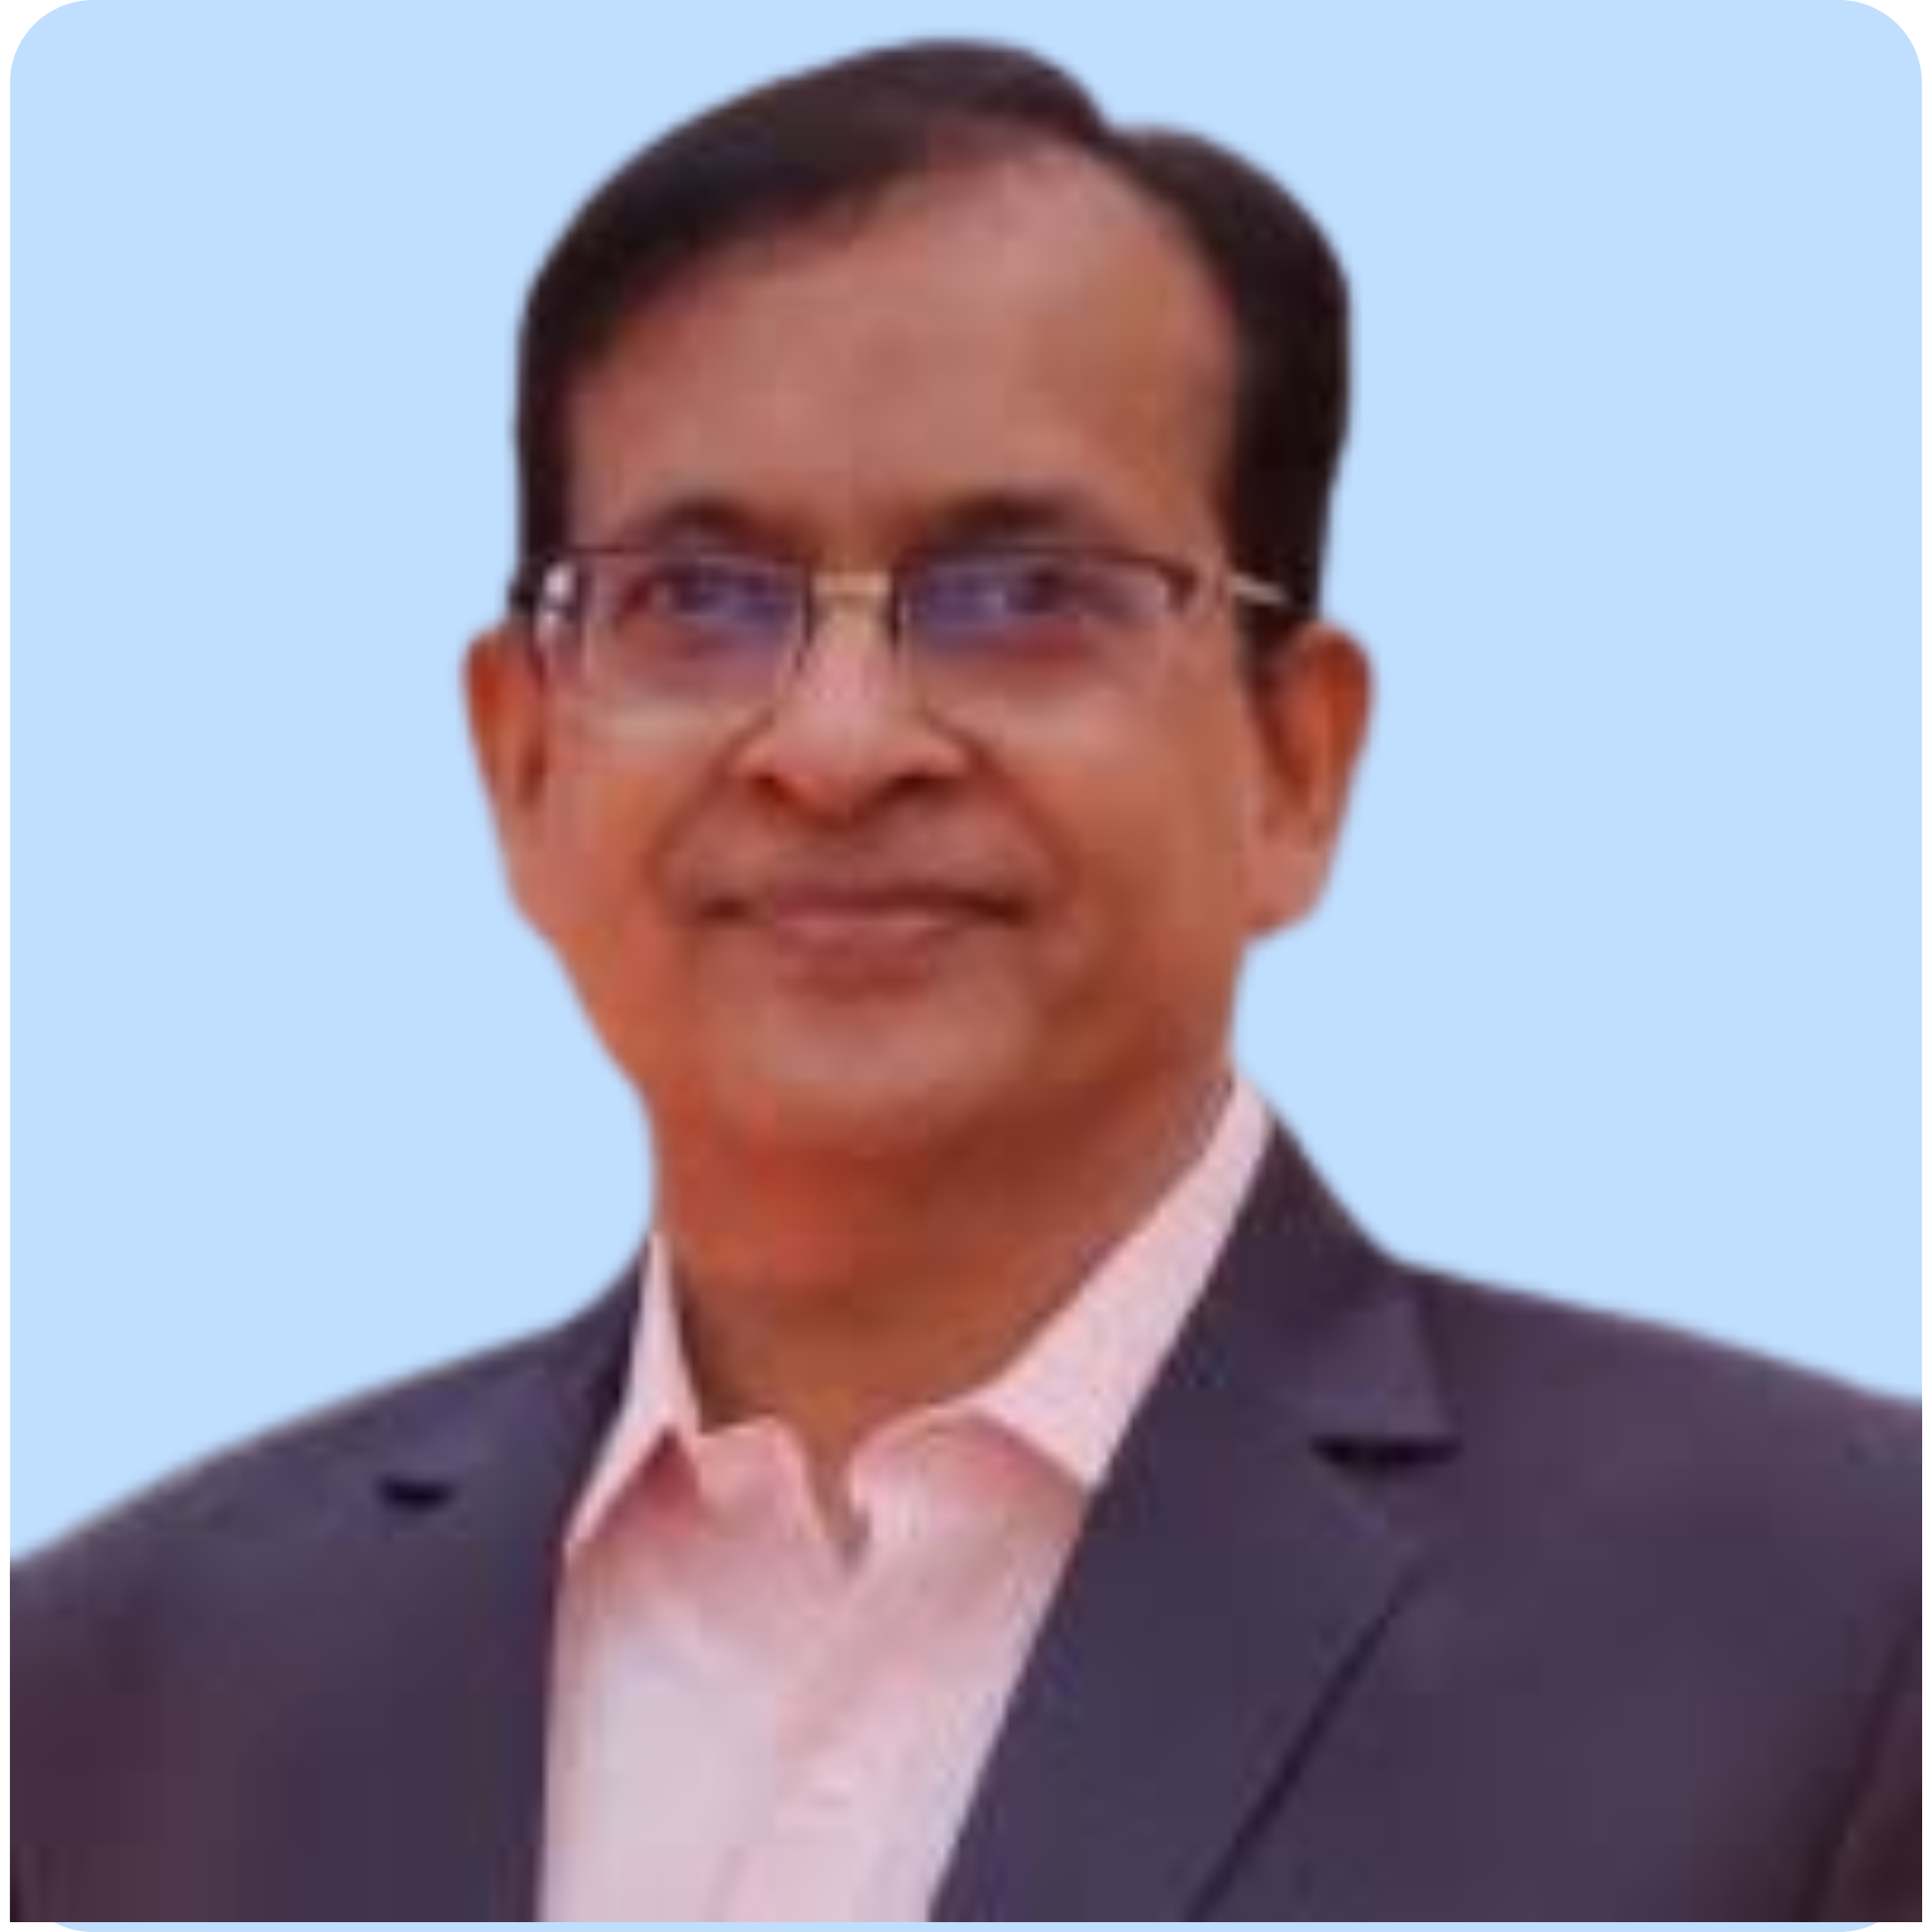
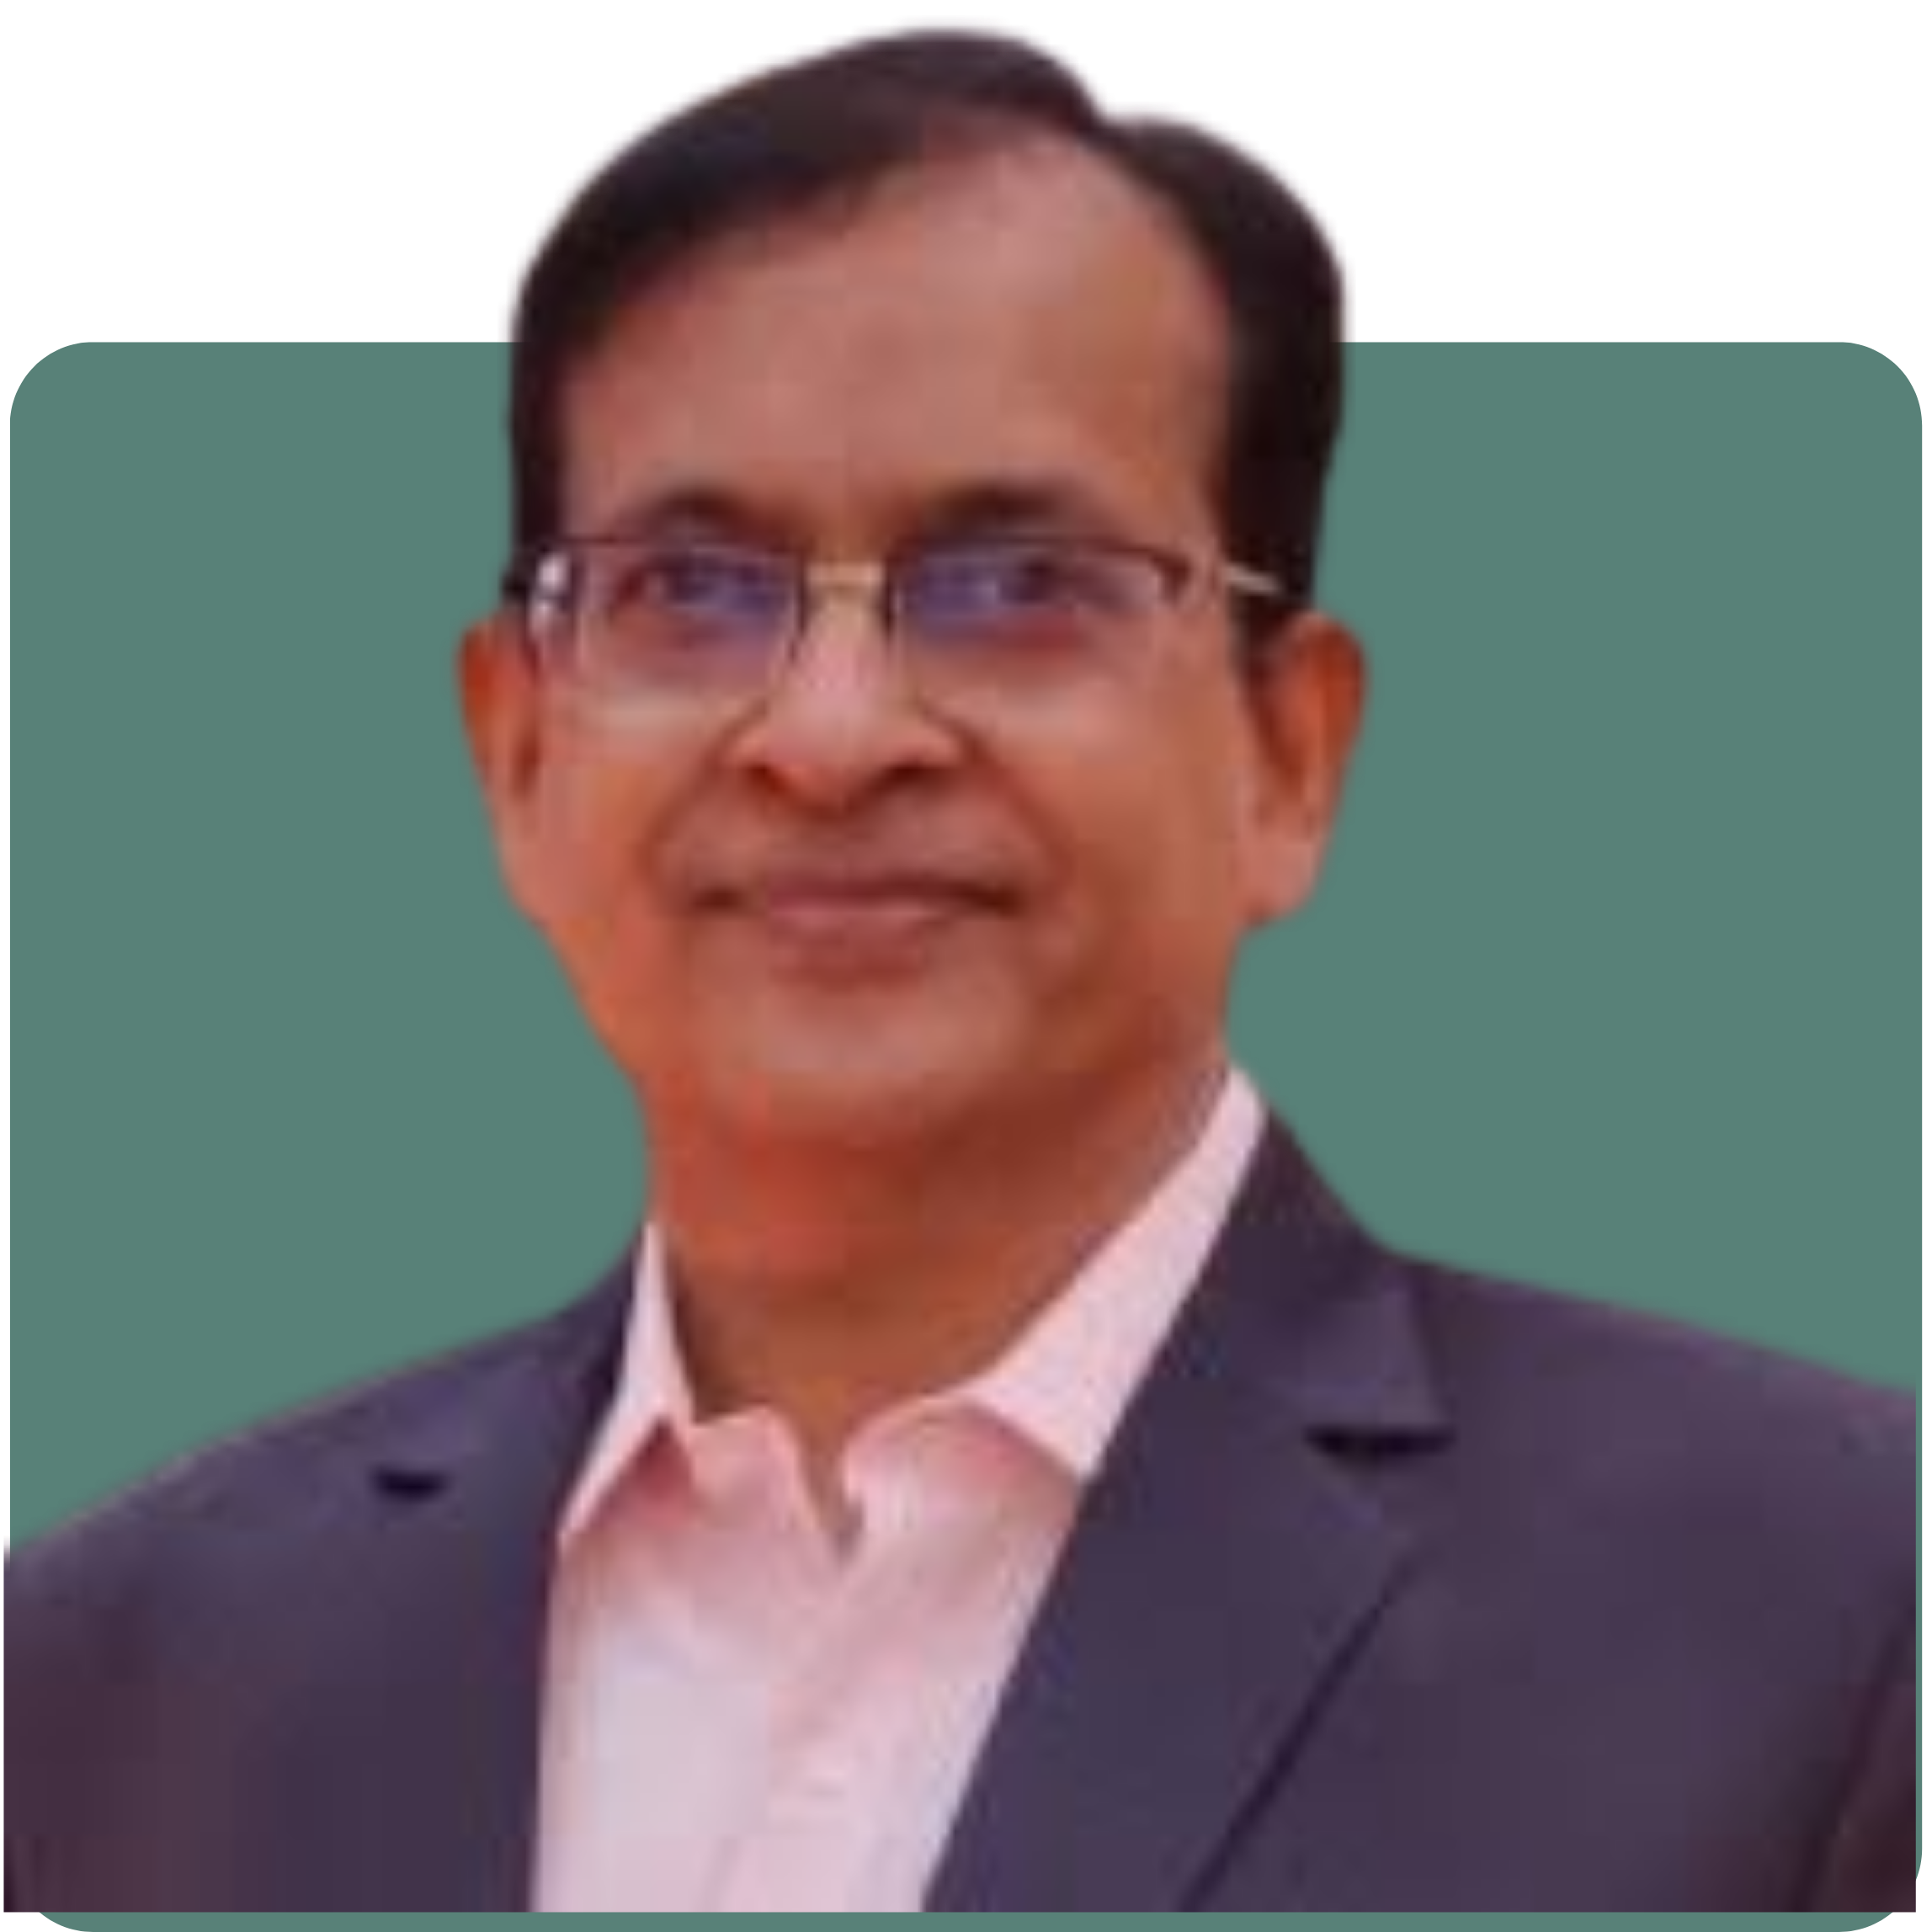
Initial commit

diff --git a/src/Faculty.jsx b/src/Faculty.jsx
@@ -1,6 +1,6 @@
 import React from "react";
 import EducatorCard from "./EducatorCard";
-import nupur from "./images/cbp photos.png";
+import nupur from "./images/1.png";
 import rakesh from "./images/2.png";
 import Niraja from "./images/3.png";
 